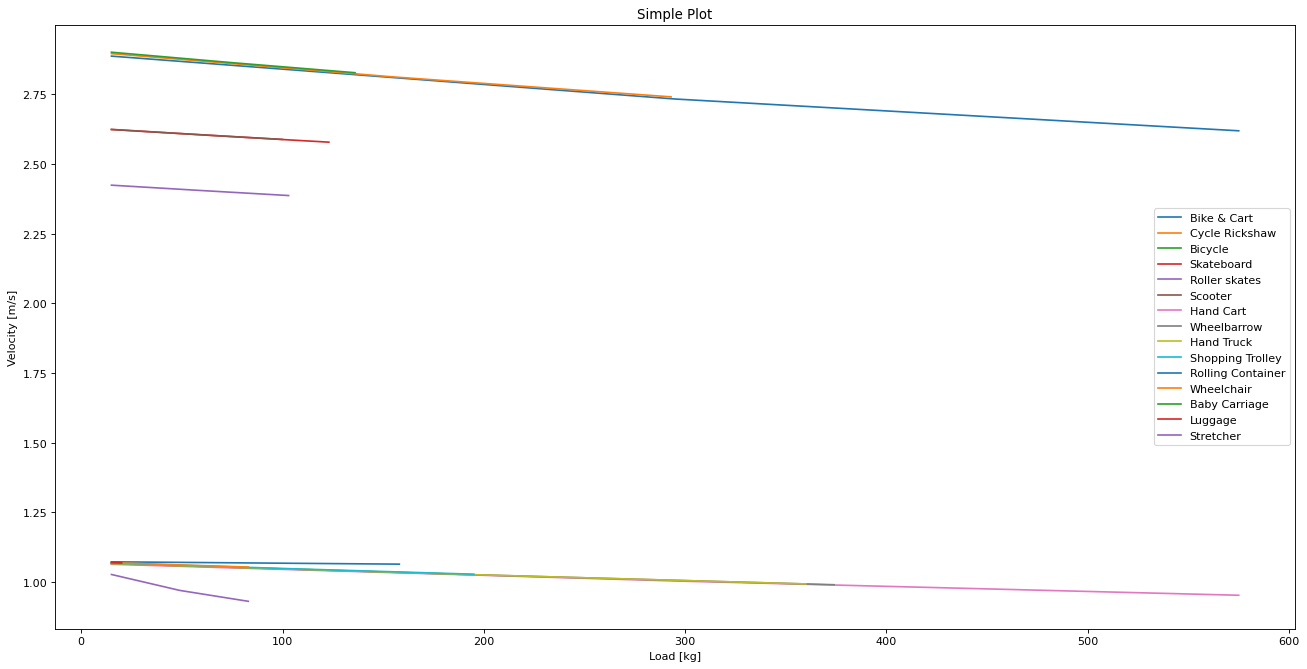
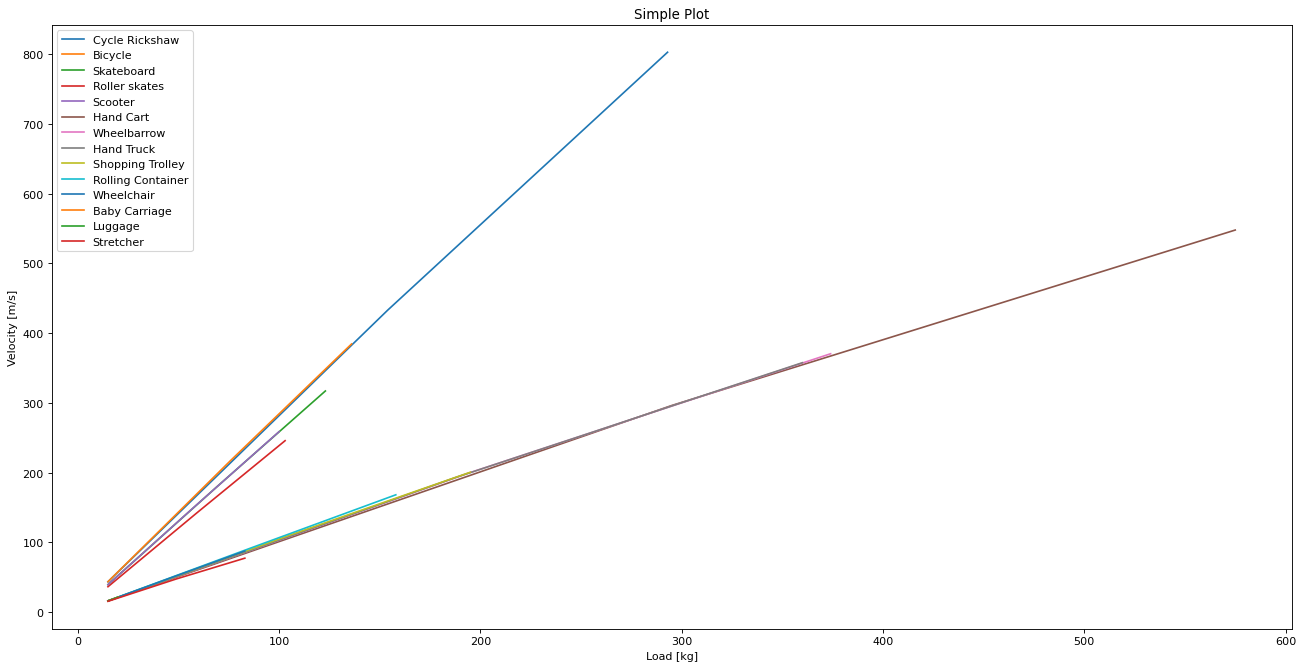
comparison graphs generated

diff --git a/main.py b/main.py
@@ -8,7 +8,7 @@ with open("ModelParams.csv") as csv_file:
     param_df = pd.read_csv("ModelParams.csv") 
 
 #### variables (changeable)
-s_deg=0         # slope in degrees
+s_deg=20         # slope in degrees
 m1=83           # mass of rider/person
 P_t=75          #power output of person (steady state average)
 F_max = 300     # maximum force exertion for pushing up a hill for a short amount of time
@@ -97,14 +97,16 @@ distance_achievable = (v_avg*t_secs)/1000 #kms
 #### Plotting
 i=0
 fig, ax = plt.subplots(figsize=(20, 10))
-
 for HPVname in param_df.Name:
-    ax.plot(load_matrix[i], v_avg[i], label=HPVname)  # Plot some data on the axes.
+    ax.plot(load_matrix[i], v_avg[i]*load_matrix[i], label=HPVname)  # Plot some data on the axes.
     i += 1
 plt.xlabel('Load [kg]')
 plt.ylabel('Velocity [m/s]')
 plt.title("Simple Plot")
 plt.legend();
+
+
+
 
 filename_output = 'velocity_slope' + str(s_deg)
 fig.savefig(filename_output, transparent=False, dpi=80, bbox_inches="tight")
